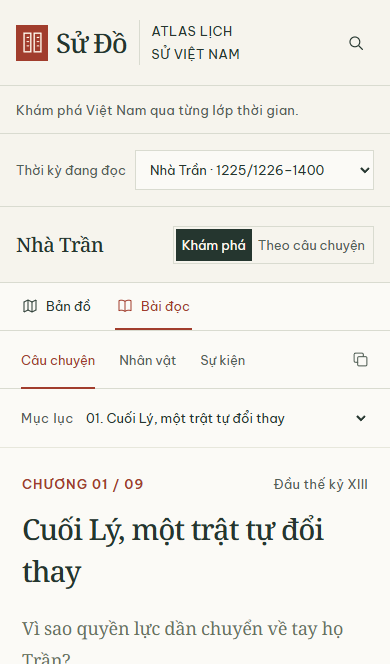
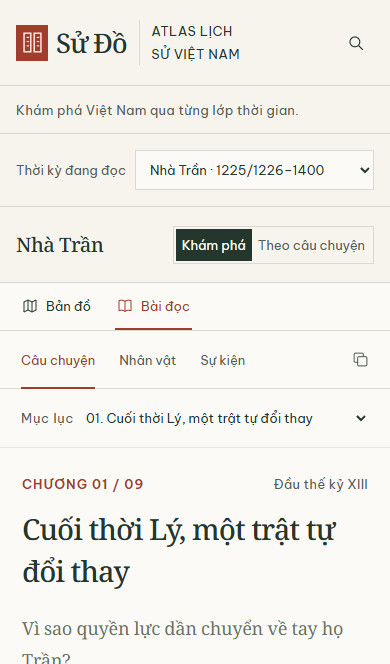
fix(content): clarify dynasty wording and normalize ruler rows

Changed region(s): [[0.0615, 0.753, 0.8615, 0.9036], [0.3385, 0.6024, 0.8, 0.6627]]

diff --git a/src/data/biographies.ts b/src/data/biographies.ts
@@ -247,7 +247,7 @@ export const biographies: Record<Person["id"], BiographyProfile> = {
     title: "Hoàng đế Đại Việt · Thái thượng hoàng",
     life: "1321–1394",
     summary: {
-      text: "Trần Nghệ Tông, tên húy Trần Phủ, là con Trần Minh Tông. Ông lên ngôi năm 1370 sau khi cùng các thành viên hoàng tộc lật đổ Dương Nhật Lễ. Năm 1372, Nghệ Tông truyền ngôi cho em là Trần Kính, tức Trần Duệ Tông, rồi giữ vai trò Thái thượng hoàng đến năm 1394. Ảnh hưởng của ông kéo dài qua nhiều đời vua cuối Trần.",
+      text: "Trần Nghệ Tông, tên húy Trần Phủ, là con Trần Minh Tông. Ông lên ngôi năm 1370 sau khi cùng các thành viên hoàng tộc lật đổ Dương Nhật Lễ. Năm 1372, Nghệ Tông truyền ngôi cho em là Trần Kính, tức Trần Duệ Tông, rồi giữ vai trò Thái thượng hoàng đến năm 1394. Ảnh hưởng của ông kéo dài qua nhiều đời vua cuối thời Trần.",
       refs: genealogy("Trần Nghệ Tông"),
     },
     sections: [
@@ -417,7 +417,7 @@ export const biographies: Record<Person["id"], BiographyProfile> = {
     relatedClaimIds: ["date-disagreement"],
   },
   "tran-thu-do": {
-    title: "Người tổ chức việc chuyển từ Lý sang Trần",
+    title: "Người tổ chức việc chuyển từ nhà Lý sang nhà Trần",
     summary: {
       text: "Trần Thủ Độ giữ chức Điện tiền chỉ huy sứ dưới triều Lý và nắm lực lượng bảo vệ cung đình. Ông cùng những người trong họ Trần tổ chức việc kết hôn giữa Lý Chiêu Hoàng và Trần Cảnh, rồi chuyển giao ngôi vua. Quyền lực của ông gắn với bộ máy cung đình và việc hình thành triều Trần, trong khi người trực tiếp nhận ngôi hoàng đế là Trần Cảnh.",
       refs: [
@@ -522,7 +522,7 @@ export const biographies: Record<Person["id"], BiographyProfile> = {
     },
   },
   "ho-quy-ly": {
-    title: "Người nắm quyền cuối Trần · người lập nhà Hồ",
+    title: "Người nắm quyền cuối thời Trần · người lập nhà Hồ",
     summary: {
       text: "Hồ Quý Ly, còn mang họ Lê trong một giai đoạn, là nhân vật nắm quyền lực ngày càng lớn vào cuối triều Trần. Ông thúc đẩy các chính sách như tiền giấy năm 1396 và hạn điền năm 1397, trước khi thay ngôi nhà Trần năm 1400. Triều Hồ được thành lập với quốc hiệu Đại Ngu, đặt kinh đô ở Tây Đô.",
       refs: [

diff --git a/src/data/periods/ho/reforms.ts b/src/data/periods/ho/reforms.ts
@@ -118,7 +118,7 @@ export const hoReformClaimIds: Record<string, string> = {
   ),
   daiNgu: register(
     "ho-dai-ngu-name",
-    "Năm 1400, Hồ Quý Ly lên ngôi, đặt niên hiệu Thánh Nguyên và quốc hiệu Đại Ngu. Tây Đô là kinh đô của triều đại mới; việc xây dựng trung tâm này đã bắt đầu từ cuối Trần.",
+    "Năm 1400, Hồ Quý Ly lên ngôi, đặt niên hiệu Thánh Nguyên và quốc hiệu Đại Ngu. Tây Đô là kinh đô của triều đại mới; việc xây dựng trung tâm này đã bắt đầu từ cuối thời Trần.",
     [
       chronicle("tờ 36b–37a: chuyển triều và quốc hiệu"),
       ["ho-chronology", "Tiêu đề và mục Hồ Quý Ly"],
@@ -194,7 +194,7 @@ export const hoReformClaimIds: Record<string, string> = {
 
   landContext: register(
     "ho-land-context",
-    "Ruộng đất và gia nô là những nguồn lực gắn với thế lực của quý tộc cuối Trần. Chính sách hạn điền điều chỉnh quyền chiếm hữu ruộng tư, khác với hạn nô là chính sách điều chỉnh việc giữ người lệ thuộc.",
+    "Ruộng đất và gia nô là những nguồn lực gắn với thế lực của quý tộc cuối thời Trần. Chính sách hạn điền điều chỉnh quyền chiếm hữu ruộng tư, khác với hạn nô là chính sách điều chỉnh việc giữ người lệ thuộc.",
     [
       [
         "ho-socio-economic-study",
@@ -376,7 +376,7 @@ export const hoReformClaimIds: Record<string, string> = {
   ),
   educationPolicy: register(
     "ho-local-schools-policy",
-    "Năm 1397, triều đình ra chiếu đặt học quan và cấp ruộng phục vụ việc học ở một số phủ, lộ. Đây là chủ trương mở rộng cơ sở giáo dục địa phương từ cuối Trần, trước khi nhà Hồ thành lập.",
+    "Năm 1397, triều đình ra chiếu đặt học quan và cấp ruộng phục vụ việc học ở một số phủ, lộ. Đây là chủ trương mở rộng cơ sở giáo dục địa phương từ cuối thời Trần, trước khi nhà Hồ thành lập.",
     [
       chronicle("tờ 30a–30b: học quan, học điền và tiến cử học trò"),
       ["ho-education-heritage", "Đoạn chiếu tháng 5 năm Đinh Sửu"],

diff --git a/src/data/shared/ho-people.ts b/src/data/shared/ho-people.ts
@@ -209,7 +209,7 @@ export const hoPeople: Person[] = [
     summaryClaimIds: [
       passage(
         "ho-bio-phi-khanh-summary",
-        "Nguyễn Phi Khanh vốn tên Nguyễn Ứng Long, là nhà nho và nhà thơ sống qua cuối Trần và thời Hồ. Ông là cha Nguyễn Trãi; gia đình có quan hệ với Trần Nguyên Đán qua cuộc hôn nhân với Trần Thị Thái. Năm 1401, Hồ Hán Thương bổ dụng ông làm Hàn lâm học sĩ, mở ra quãng thời gian ông tham gia chính quyền nhà Hồ.",
+        "Nguyễn Phi Khanh vốn tên Nguyễn Ứng Long, là nhà nho và nhà thơ sống qua cuối thời Trần và thời Hồ. Ông là cha Nguyễn Trãi; gia đình có quan hệ với Trần Nguyên Đán qua cuộc hôn nhân với Trần Thị Thái. Năm 1401, Hồ Hán Thương bổ dụng ông làm Hàn lâm học sĩ, mở ra quãng thời gian ông tham gia chính quyền nhà Hồ.",
         [
           [
             "ho-phi-khanh-research",
@@ -228,7 +228,7 @@ export const hoPeople: Person[] = [
     ],
     biographySections: [
       {
-        title: "Từ khoa bảng cuối Trần đến làm quan nhà Hồ",
+        title: "Từ khoa bảng cuối thời Trần đến làm quan nhà Hồ",
         claimIds: [
           passage(
             "ho-bio-phi-khanh-career",
@@ -300,7 +300,7 @@ export const hoPeople: Person[] = [
     summaryClaimIds: [
       passage(
         "ho-bio-trai-summary",
-        "Nguyễn Trãi, hiệu Ức Trai, là con Nguyễn Phi Khanh và Trần Thị Thái, cháu ngoại Trần Nguyên Đán. Năm 1400, ông đỗ Thái học sinh trong khoa thi đầu triều Hồ rồi tham gia bộ máy quan lại. Quãng đời đầu ấy gắn ông với sự thay đổi từ Trần sang Hồ và với biến cố chiến tranh năm 1407.",
+        "Nguyễn Trãi, hiệu Ức Trai, là con Nguyễn Phi Khanh và Trần Thị Thái, cháu ngoại Trần Nguyên Đán. Năm 1400, ông đỗ Thái học sinh trong khoa thi đầu triều Hồ rồi tham gia bộ máy quan lại. Quãng đời đầu ấy gắn ông với sự chuyển đổi từ nhà Trần sang nhà Hồ và với biến cố chiến tranh năm 1407.",
         [
           [
             "ho-trai-museum",

diff --git a/src/data/periods/ho/index.ts b/src/data/periods/ho/index.ts
@@ -20,7 +20,7 @@ export const hoContent: PeriodContent = {
       "ho-war-capture-result",
     ],
     summary:
-      "Nhà Hồ được lập năm 1400 với quốc hiệu Đại Ngu, đặt kinh đô tại Tây Đô. Hồ Quý Ly truyền ngôi cho Hồ Hán Thương ngay cuối năm ấy và tiếp tục cùng coi chính sự trên ngôi Thái thượng hoàng. Những cải cách về tiền tệ, ruộng đất, nhân lực và việc học đã bắt đầu từ cuối Trần, rồi được tiếp tục dưới triều mới với kết quả không đồng đều. Cuộc tiến công của nhà Minh năm 1406 và các thất bại quân sự năm 1407 kết thúc sự cai trị của nhà Hồ, nhưng cuộc đời và di sản của nhiều nhân vật còn tiếp tục sau đó.",
+      "Nhà Hồ được lập năm 1400 với quốc hiệu Đại Ngu, đặt kinh đô tại Tây Đô. Hồ Quý Ly truyền ngôi cho Hồ Hán Thương ngay cuối năm ấy và tiếp tục cùng coi chính sự trên ngôi Thái thượng hoàng. Những cải cách về tiền tệ, ruộng đất, nhân lực và việc học đã bắt đầu từ cuối thời Trần, rồi được tiếp tục dưới triều mới với kết quả không đồng đều. Cuộc tiến công của nhà Minh năm 1406 và các thất bại quân sự năm 1407 kết thúc sự cai trị của nhà Hồ, nhưng cuộc đời và di sản của nhiều nhân vật còn tiếp tục sau đó.",
     overviewFacts: [
       { label: "Quốc hiệu", value: "Đại Ngu", claimIds: [reform.daiNgu] },
       {

diff --git a/src/data/periods/tran/index.ts b/src/data/periods/tran/index.ts
@@ -46,7 +46,7 @@ export const tranContent: PeriodContent = {
       "tran-ending",
     ],
     summary:
-      "Triều Trần hình thành khi thế lực họ Trần đã gia tăng trong triều đình cuối Lý. Việc Lý Chiêu Hoàng nhường ngôi cho Trần Cảnh mở ra một cơ chế quyền lực có cả vua và Thái thượng hoàng. Ba cuộc kháng chiến trong thế kỷ XIII là những dấu mốc nổi bật, bên cạnh đời sống nông nghiệp, khoa cử và Phật giáo Trúc Lâm. Cuối thế kỷ XIV, quyền lực chuyển dần sang Hồ Quý Ly; năm 1400 mở đầu triều Hồ.",
+      "Triều Trần hình thành khi thế lực họ Trần đã gia tăng trong triều đình cuối thời Lý. Việc Lý Chiêu Hoàng nhường ngôi cho Trần Cảnh mở ra một cơ chế quyền lực có cả vua và Thái thượng hoàng. Ba cuộc kháng chiến trong thế kỷ XIII là những dấu mốc nổi bật, bên cạnh đời sống nông nghiệp, khoa cử và Phật giáo Trúc Lâm. Cuối thế kỷ XIV, quyền lực chuyển dần sang Hồ Quý Ly; năm 1400 mở đầu triều Hồ.",
   },
   chapters,
   events,

diff --git a/tests/e2e/atlas.spec.ts b/tests/e2e/atlas.spec.ts
@@ -4,7 +4,7 @@ test.beforeEach(async ({ page }) => {
   await page.goto("/");
   await expect(
     page.getByRole("heading", {
-      name: "Cuối Lý, một trật tự đổi thay",
+      name: "Cuối thời Lý, một trật tự đổi thay",
       exact: true,
     }),
   ).toBeVisible();
@@ -188,7 +188,7 @@ test("year without territory data stays useful, and modern boundaries are opt in
   await expect(modern).not.toBeChecked();
   await modern.check();
   await expect(page.locator(".modern-notice")).toContainText(
-    "Tham chiếu hiện đại",
+    "Tham chiếu địa lý hiện đại",
   );
   await modern.uncheck();
   await expect(page.locator(".modern-notice")).toHaveCount(0);
@@ -221,7 +221,7 @@ test("map failure leaves readable content and a text alternative", async ({
     await page.getByRole("button", { name: "Bài đọc", exact: true }).click();
   await expect(
     page.getByRole("heading", {
-      name: "Cuối Lý, một trật tự đổi thay",
+      name: "Cuối thời Lý, một trật tự đổi thay",
       exact: true,
     }),
   ).toBeVisible();

diff --git a/src/data/periods/tran/chapters.ts b/src/data/periods/tran/chapters.ts
@@ -6,7 +6,7 @@ export const chapters: StoryChapter[] = [
     periodId: "tran",
     anchorYear: 1225,
     number: "01",
-    title: "Cuối Lý, một trật tự đổi thay",
+    title: "Cuối thời Lý, một trật tự đổi thay",
     question: "Vì sao quyền lực dần chuyển về tay họ Trần?",
     date: date(1200, 1226, "Đầu thế kỷ XIII"),
     placeIds: ["thang-long", "hai-ap"],
@@ -207,7 +207,7 @@ export const chapters: StoryChapter[] = [
         { date: "1397", label: "Hạn điền" },
         { date: "1400", label: "Chuyển triều" },
       ],
-      caption: "Chính sách bắt đầu dưới cuối Trần → tiếp nối sang nhà Hồ",
+      caption: "Chính sách bắt đầu từ cuối thời Trần → tiếp tục dưới triều Hồ",
     },
     takeaway:
       "Ranh giới triều đại giúp định hướng thời gian; các quá trình chính trị và xã hội có thể đi qua ranh giới đó.",

diff --git a/src/data/periods/ho/transition.ts b/src/data/periods/ho/transition.ts
@@ -4,7 +4,7 @@ import { date, type HistoricalEvent } from "../../schema";
 export const hoTransitionEvent: HistoricalEvent = {
   id: "nha-ho-1400",
   periodIds: ["tran", "ho"],
-  name: "Chuyển từ Trần sang Hồ",
+  name: "Chuyển từ nhà Trần sang nhà Hồ",
   date: date(1400, 1400, "1400"),
   placeIds: ["tay-do"],
   personIds: ["ho-quy-ly", "tran-thieu-de"],
@@ -12,7 +12,7 @@ export const hoTransitionEvent: HistoricalEvent = {
   developmentClaimIds: ["tran-ending"],
   resultClaimIds: [],
   consequence:
-    "Một chính sách bắt đầu trước năm 1400 nên được đặt trong bối cảnh cuối Trần hay chỉ kể trong nhà Hồ?",
+    "Một chính sách bắt đầu trước năm 1400 nên được đặt trong bối cảnh cuối thời Trần hay chỉ kể trong nhà Hồ?",
   consequenceKind: "editorial-question",
   precisionNote: "",
 };

diff --git a/src/data/sources.ts b/src/data/sources.ts
@@ -88,7 +88,7 @@ export const sources: Source[] = [
     readLocation:
       "Các mục về Liễu–Thuận Thiên, Thái Tông–Thuận Thiên, Nhân Tông–Bảo Thánh.",
     limits:
-      "Tiêu đề và lời đánh giá là cách trình bày của nguồn; chỉ dùng các quan hệ đã đối chiếu với Toàn thư/Thế thứ. Không sử dụng nhánh cuối Trần hoặc suy đoán đời tư từ bài này.",
+      "Tiêu đề và lời đánh giá là cách trình bày của nguồn; chỉ dùng các quan hệ đã đối chiếu với Toàn thư/Thế thứ. Không sử dụng nhánh cuối thời Trần hoặc suy đoán đời tư từ bài này.",
   }),
   source({
     id: "thieu-de-court",

diff --git a/src/data/periods/ho/chapters.ts b/src/data/periods/ho/chapters.ts
@@ -7,9 +7,9 @@ export const hoChapters: StoryChapter[] = [
     id: "ho-lap-trieu",
     periodId: "ho",
     number: "01",
-    title: "Từ cuối Trần đến quốc hiệu Đại Ngu",
+    title: "Từ cuối thời Trần đến quốc hiệu Đại Ngu",
     question: "Một cuộc chuyển ngôi đã tiếp nối những thay đổi quyền lực nào?",
-    date: date(1396, 1401, "Cuối Trần – đầu Hồ · 1396–1400"),
+    date: date(1396, 1401, "Cuối thời Trần – đầu thời Hồ · 1396–1400"),
     anchorYear: 1400,
     placeIds: ["tay-do"],
     personIds: ["ho-quy-ly", "tran-thieu-de", "ho-han-thuong"],

diff --git a/src/data/periods/tran/claims.ts b/src/data/periods/tran/claims.ts
@@ -66,7 +66,7 @@ claim(
 );
 claim(
   "thu-do",
-  "Trần Thủ Độ giữ chức Điện tiền chỉ huy sứ cuối Lý, nắm lực lượng bảo vệ cung đình và tham gia tổ chức chuyển ngôi. Chức vụ và ảnh hưởng chính trị cần được đọc riêng với ngôi vua của Trần Cảnh.",
+  "Trần Thủ Độ giữ chức Điện tiền chỉ huy sứ cuối thời Lý, nắm lực lượng bảo vệ cung đình và tham gia tổ chức chuyển ngôi. Chức vụ và ảnh hưởng chính trị cần được đọc riêng với ngôi vua của Trần Cảnh.",
   [
     [
       "ly-transition",

diff --git a/src/data/periods/ho/people-war.ts b/src/data/periods/ho/people-war.ts
@@ -27,7 +27,7 @@ export const hoPersonWarSources: Source[] = [
   source({
     id: "ho-annals-viii",
     title:
-      "Đại Việt sử ký toàn thư — Bản kỷ VIII, các mục cuối Trần và thời Hồ",
+      "Đại Việt sử ký toàn thư — Bản kỷ VIII, các mục cuối thời Trần và thời Hồ",
     publisher: "Việt Nam Thư Quán — bản chuyển dạng",
     url: "https://thuvien.vietnamthuquan.eu/TacPham/dai-viet-su-ky-toan-thu-2585/chuong-24",
     type: "chronology",
